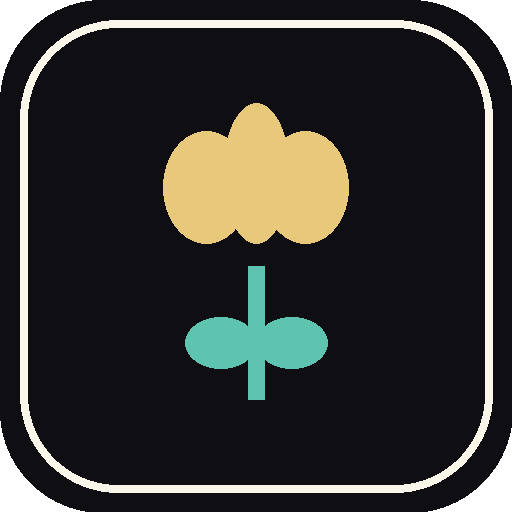
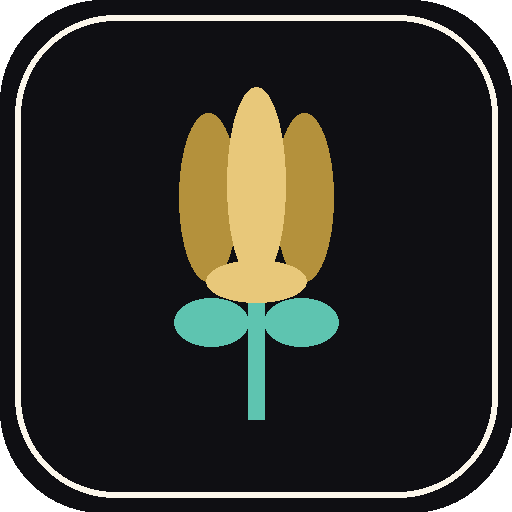
Add files via upload

diff --git a/index.html b/index.html
@@ -8,6 +8,8 @@
 <meta name="apple-mobile-web-app-status-bar-style" content="black-translucent">
 <meta name="apple-mobile-web-app-title" content="Dutch Woorden">
 <meta name="theme-color" content="#0f0f13">
+<link rel="manifest" href="manifest.json">
+<link rel="apple-touch-icon" href="icon-192.png">
 <style>
 *{box-sizing:border-box;margin:0;padding:0;-webkit-tap-highlight-color:transparent}
 :root{--night:#0f0f13;--card:#1e1e28;--raised:#252532;--border:rgba(255,255,255,0.08);--border2:rgba(255,255,255,0.15);--text:#f0eeea;--muted:#8a8899;--dim:#5a5870;--gold:#e8c87a;--gold2:#c49a3c;--teal:#5ec4b0;--rose:#e07b7b;}
